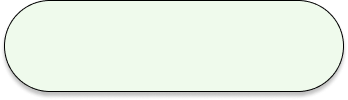
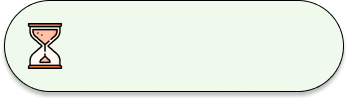
Acrescenta o ícone à textura de tempo restante

Changed region(s): [[0.0575, 0.21, 0.2011, 0.69]]

diff --git a/src/screen.cpp b/src/screen.cpp
@@ -307,7 +307,7 @@ void telaJogo()
     char buffer[50];
     snprintf(buffer, sizeof(buffer), "Tempo restante: %02d:%02d", tempoRestante / 60, tempoRestante % 60);
     glColor3f(0.0f, 0.0f, 0.0f);
-    escreveTextoBitmap(xTimer + wTimer / 1.7, yTimer + hTimer / 2.1, GLUT_BITMAP_HELVETICA_18, buffer);
+    escreveTextoBitmap(xTimer + wTimer / 1.8, yTimer + hTimer / 2.1, GLUT_BITMAP_HELVETICA_18, buffer);
 
     glutSwapBuffers();
 }
